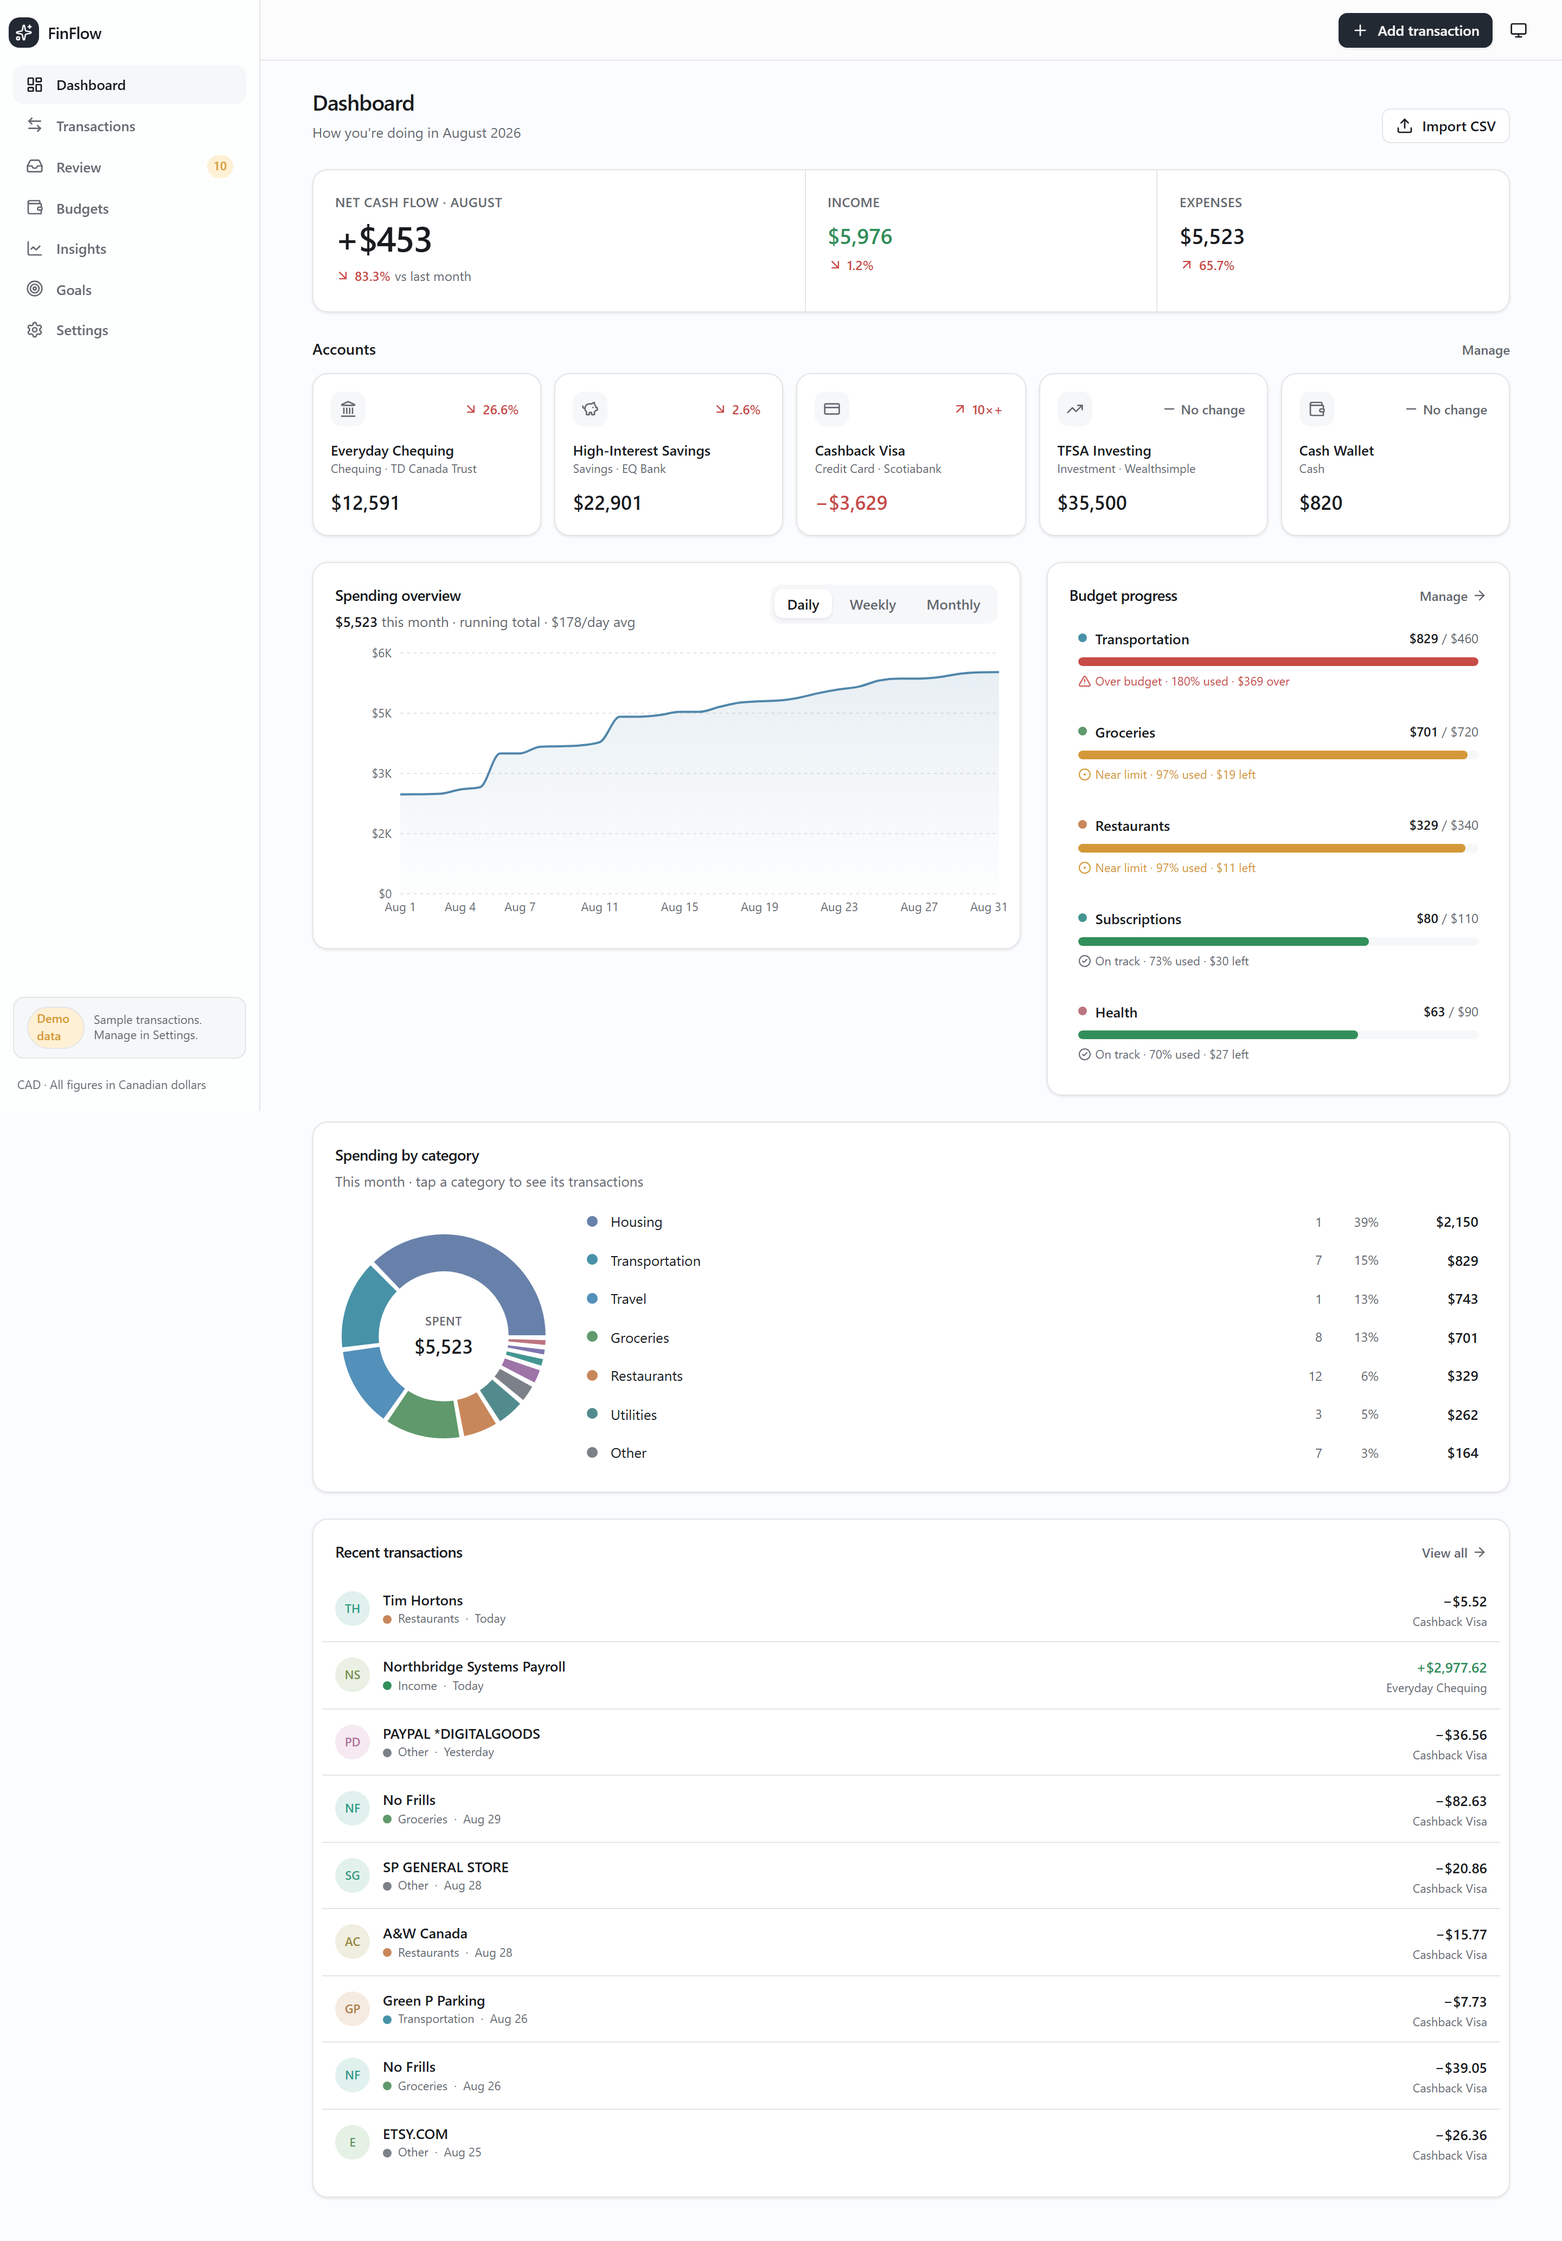
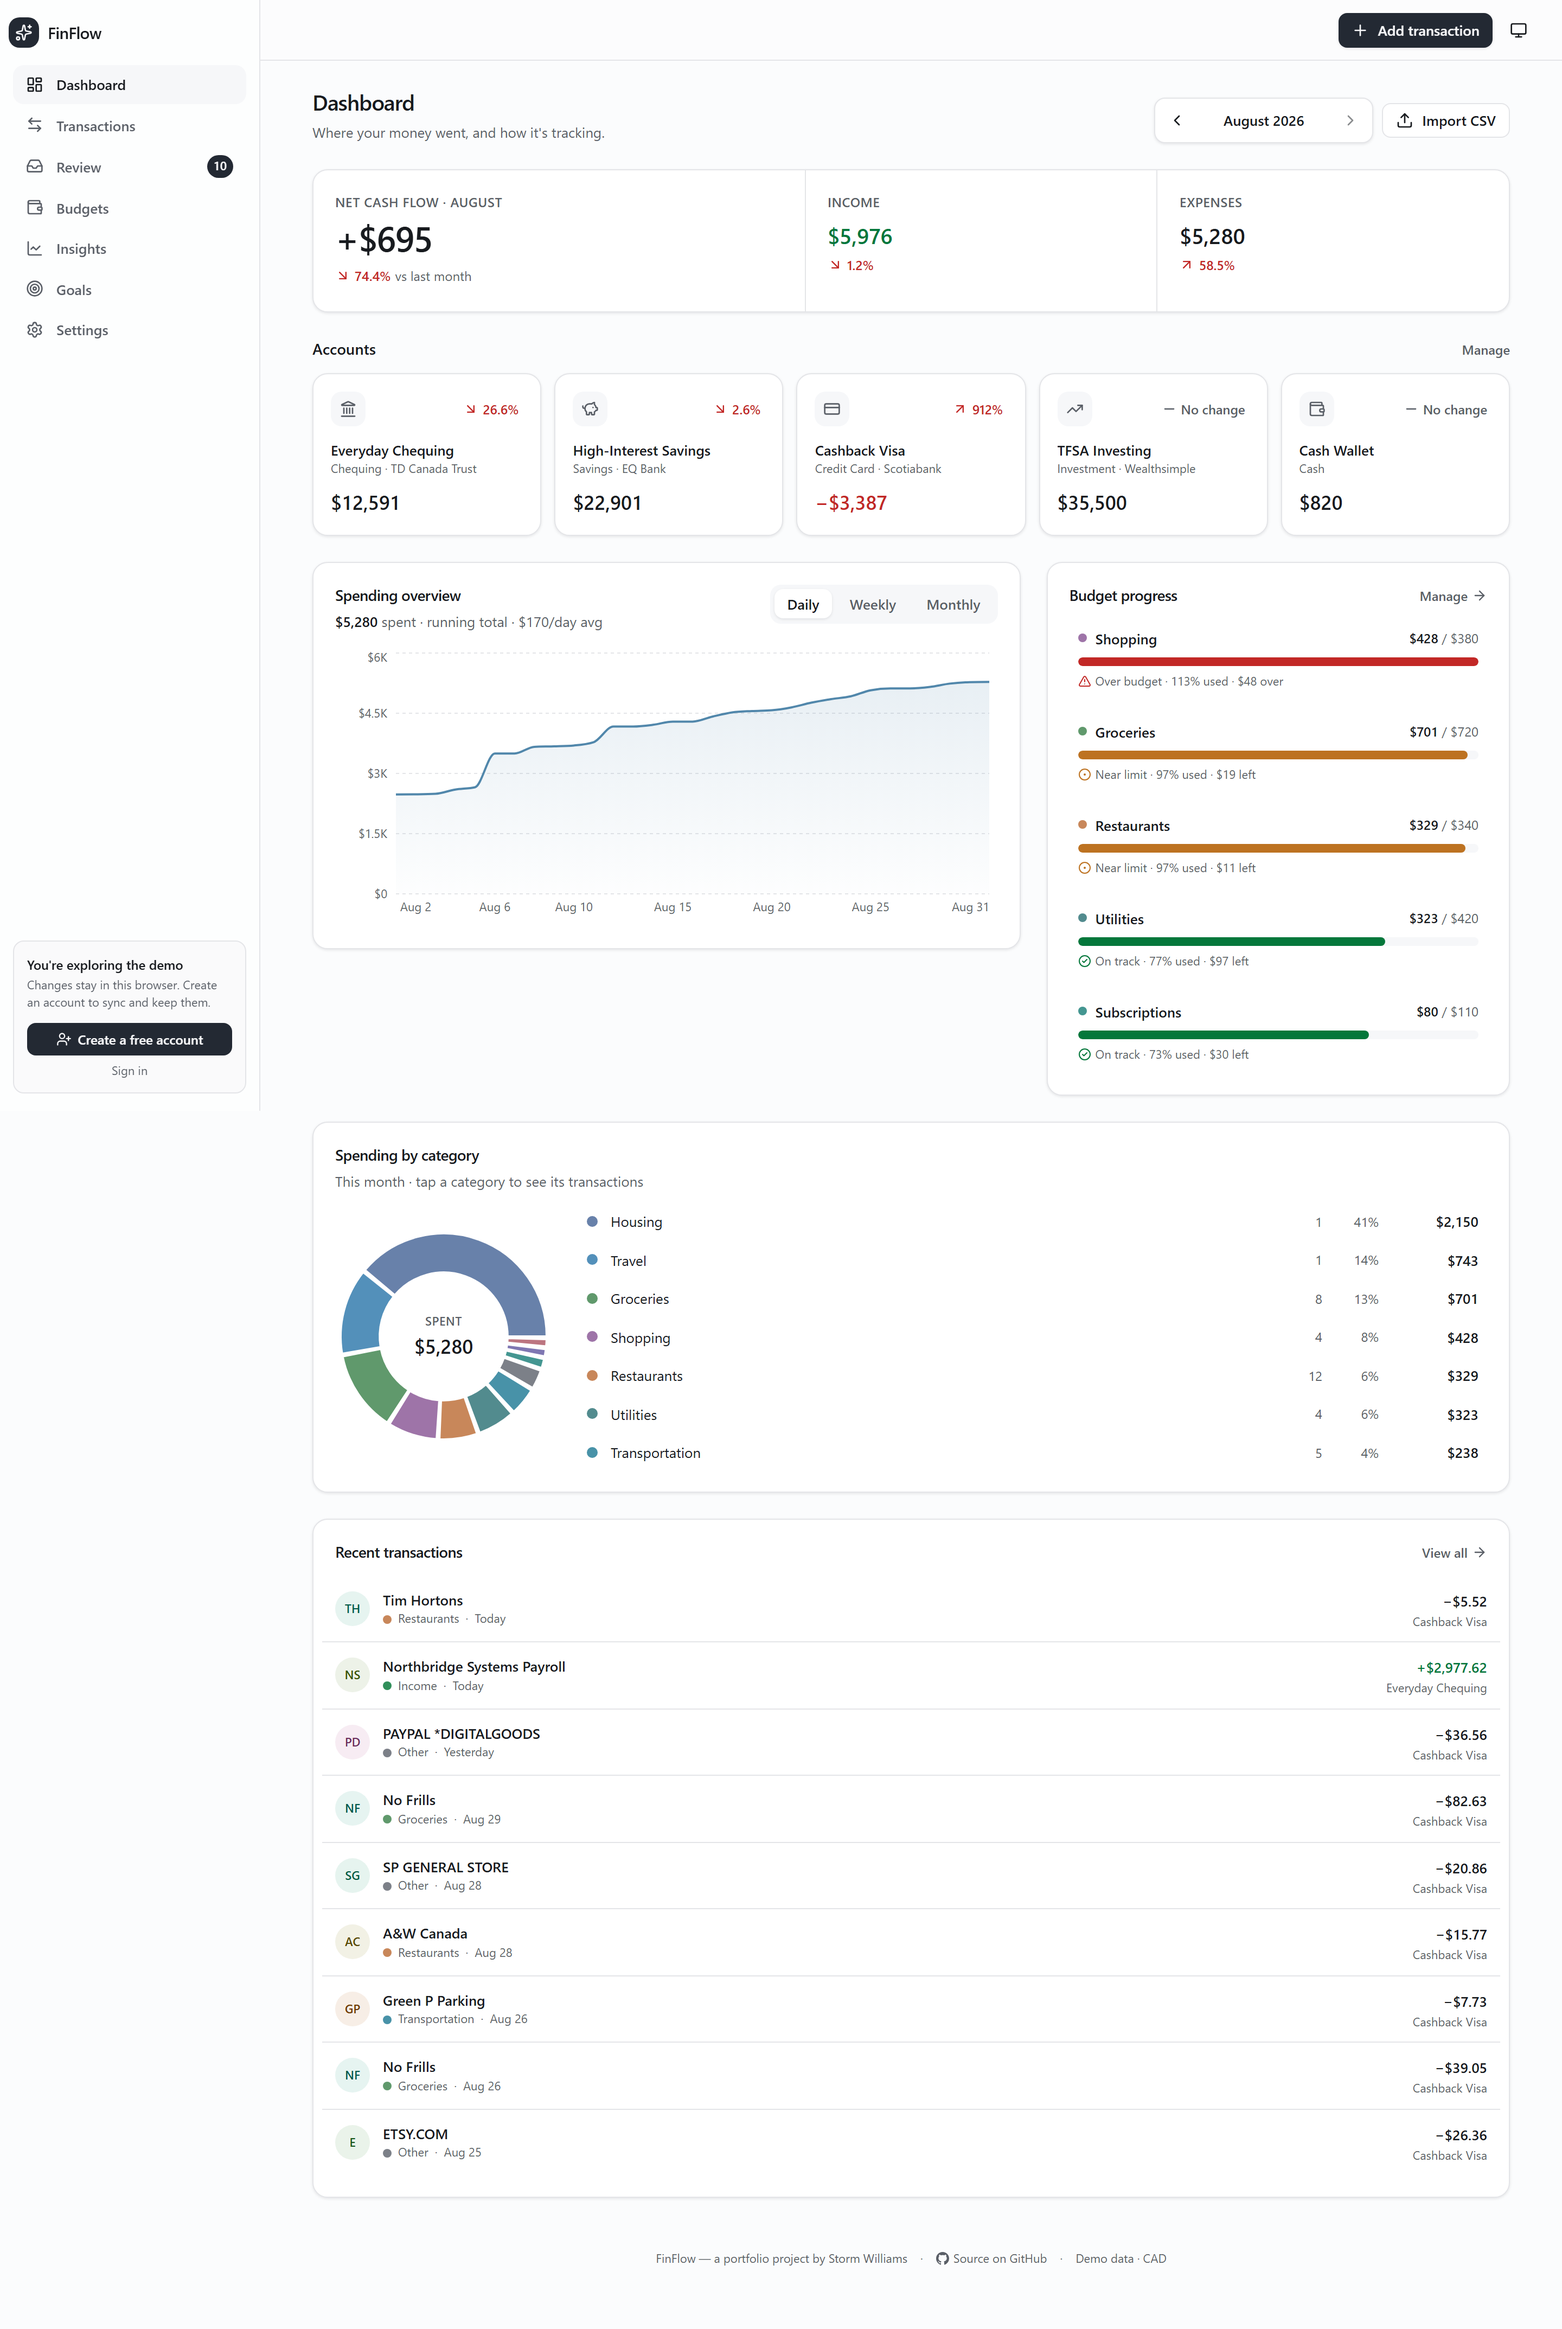
Fix chart axis labels (cents→dollars), cap trend %, refresh screenshots
- compactMoneyTick was formatting raw cents, so the insights charts showed
  "$600K" instead of "$6K". Now converts and keeps one decimal ($1.5K).
- TrendPill caps at "200%+" so a noisy month-over-month on a credit-card
  balance doesn't print "912%"
- README screenshots regenerated (month picker, guest strip, calmer
  anomalies, even ticks)

diff --git a/src/components/charts/trend-lines.tsx b/src/components/charts/trend-lines.tsx
@@ -1,11 +1,10 @@
 "use client";
 
 import { Bar, BarChart, CartesianGrid, Line, LineChart, ResponsiveContainer, Tooltip, XAxis, YAxis } from "recharts";
-import { formatMoney } from "@/lib/finance/money";
 import { monthLabel } from "@/lib/finance/dates";
 import { categoryColor, categoryName } from "@/lib/categories";
 import type { CategoryId } from "@/lib/types";
-import { ChartFrame, MoneyTooltip, axisTickStyle, moneyTicks, CHART_GRID, CHART_NEUTRAL, useChartAnimation } from "./chart-kit";
+import { ChartFrame, MoneyTooltip, axisTickStyle, moneyTicks, compactMoneyTick, CHART_GRID, CHART_NEUTRAL, useChartAnimation } from "./chart-kit";
 
 export function MonthlyBars({
   data,
@@ -24,7 +23,7 @@ export function MonthlyBars({
         <BarChart data={data} margin={{ top: 8, right: 8, bottom: 0, left: 4 }}>
           <CartesianGrid stroke={CHART_GRID} strokeDasharray="3 3" vertical={false} />
           <XAxis dataKey="month" tick={axisTickStyle} tickLine={false} axisLine={false} tickFormatter={(v: string) => monthLabel(v, { month: "short" })} />
-          <YAxis tick={axisTickStyle} tickLine={false} axisLine={false} width={52} domain={domain} ticks={ticks} tickFormatter={(v: number) => formatMoney(v, "CAD", { showCents: false, compact: true })} />
+          <YAxis tick={axisTickStyle} tickLine={false} axisLine={false} width={52} domain={domain} ticks={ticks} tickFormatter={compactMoneyTick} />
           <Tooltip cursor={{ fill: "var(--color-surface-muted)" }} content={<MoneyTooltip labelFormatter={(v) => monthLabel(String(v))} />} />
           <Bar dataKey="value" name="Spending" fill={CHART_NEUTRAL} radius={[4, 4, 0, 0]} maxBarSize={44} {...anim} />
         </BarChart>
@@ -51,7 +50,7 @@ export function CategoryTrendLines({
         <LineChart data={data} margin={{ top: 8, right: 8, bottom: 0, left: 4 }}>
           <CartesianGrid stroke={CHART_GRID} strokeDasharray="3 3" vertical={false} />
           <XAxis dataKey="month" tick={axisTickStyle} tickLine={false} axisLine={false} tickFormatter={(v: string) => monthLabel(v, { month: "short" })} />
-          <YAxis tick={axisTickStyle} tickLine={false} axisLine={false} width={52} domain={domain} ticks={ticks} tickFormatter={(v: number) => formatMoney(v, "CAD", { showCents: false, compact: true })} />
+          <YAxis tick={axisTickStyle} tickLine={false} axisLine={false} width={52} domain={domain} ticks={ticks} tickFormatter={compactMoneyTick} />
           <Tooltip content={<MoneyTooltip labelFormatter={(v) => monthLabel(String(v))} hideZero />} />
           {categories.map((c) => (
             <Line

diff --git a/src/components/charts/spending-area.tsx b/src/components/charts/spending-area.tsx
@@ -1,9 +1,8 @@
 "use client";
 
 import { Area, AreaChart, CartesianGrid, ResponsiveContainer, Tooltip, XAxis, YAxis } from "recharts";
-import { formatMoney } from "@/lib/finance/money";
 import { formatDate } from "@/lib/finance/dates";
-import { ChartFrame, MoneyTooltip, axisTickStyle, moneyTicks, CHART_GRID, CHART_NEUTRAL, useChartAnimation } from "./chart-kit";
+import { ChartFrame, MoneyTooltip, axisTickStyle, moneyTicks, compactMoneyTick, CHART_GRID, CHART_NEUTRAL, useChartAnimation } from "./chart-kit";
 
 export interface SpendingPoint {
   label: string; // x value (iso date or bucket label)
@@ -49,7 +48,7 @@ export function SpendingAreaChart({
             width={52}
             domain={domain}
             ticks={ticks}
-            tickFormatter={(v: number) => formatMoney(v, "CAD", { showCents: false, compact: true })}
+            tickFormatter={compactMoneyTick}
           />
           <Tooltip
             content={

diff --git a/src/components/charts/chart-kit.tsx b/src/components/charts/chart-kit.tsx
@@ -45,6 +45,17 @@ export function moneyTicks(values: number[]): { domain: [number, number]; ticks:
   return { domain: [0, top], ticks: [0, top / 4, top / 2, (top * 3) / 4, top] };
 }
 
+/** compact money for axis ticks (input is integer cents) — one decimal so
+ *  150000¢ reads "$1.5K", not "$2K" */
+export function compactMoneyTick(cents: number): string {
+  const dollars = cents / 100;
+  if (dollars >= 1000) {
+    const k = dollars / 1000;
+    return `$${Number.isInteger(k) ? k : k.toFixed(1)}K`;
+  }
+  return `$${Math.round(dollars)}`;
+}
+
 export function ChartFrame({
   children,
   className,

diff --git a/src/components/shared.tsx b/src/components/shared.tsx
@@ -54,7 +54,8 @@ export function TrendPill({
   const flat = Math.abs(rounded) < 0.1;
   const good = flat ? null : invert ? rounded < 0 : rounded > 0;
   const Icon = flat ? Minus : rounded > 0 ? ArrowUpRight : ArrowDownRight;
-  const magnitude = Math.abs(rounded) >= 1000 ? "10×+" : `${Math.abs(rounded) >= 100 ? Math.round(Math.abs(rounded)) : Math.abs(rounded)}%`;
+  const abs = Math.abs(rounded);
+  const magnitude = abs >= 200 ? "200%+" : `${abs >= 100 ? Math.round(abs) : abs}%`;
   return (
     <span
       className={cn(
